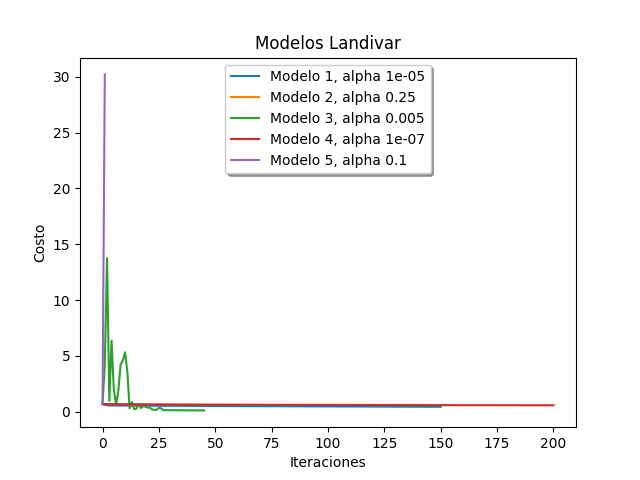
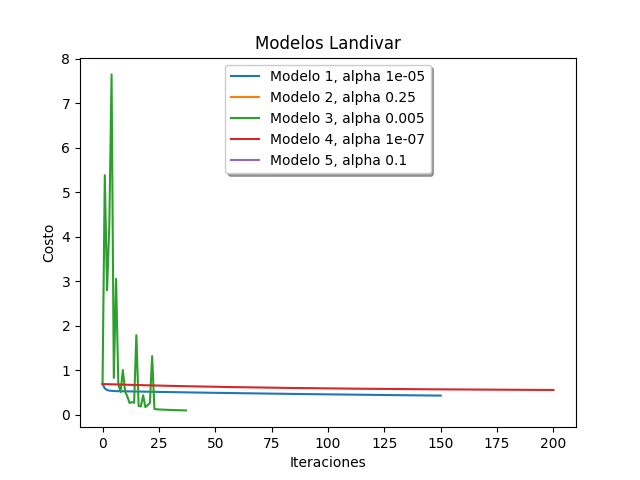
yyyyy

diff --git a/AppServer/Practica2.py b/AppServer/Practica2.py
@@ -120,6 +120,11 @@ def generarModelo():
     Singleton.getInstance().modelo_mariano = mejor_mariano[0]
     Singleton.getInstance().modelo_landivar = mejor_landivar[0]
 
+    Plotter.show_Model(gen.modelos_usac, "Modelos Usac")
+    Plotter.show_Model(gen.modelos_marroquin, "Modelos Marroquin")
+    Plotter.show_Model(gen.modelos_mariano, "Modelos Mariano")
+    Plotter.show_Model(gen.modelos_landivar, "Modelos Landivar")
+
     #print(Singleton.getInstance().modelo_usac.train_accuracy)
     #print(Singleton.getInstance().modelo_marroquin.train_accuracy)
     #print(Singleton.getInstance().modelo_mariano.train_accuracy)
